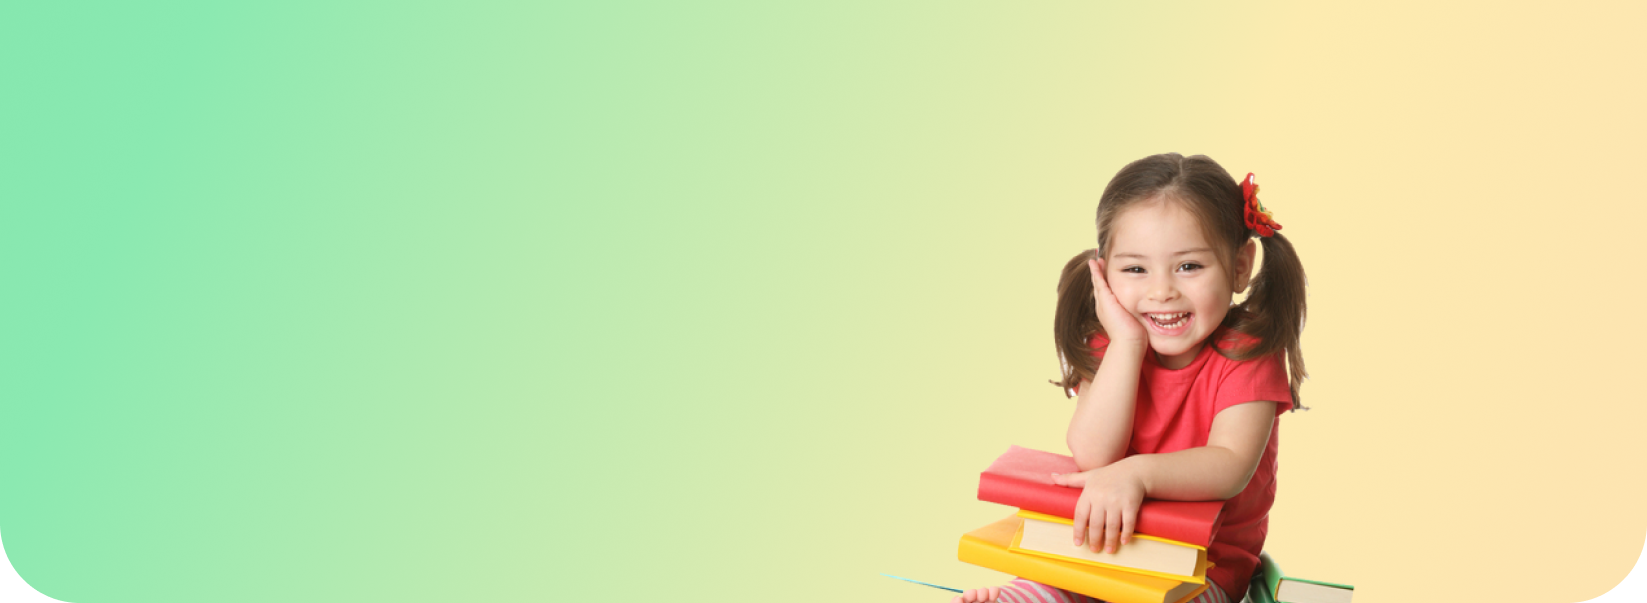
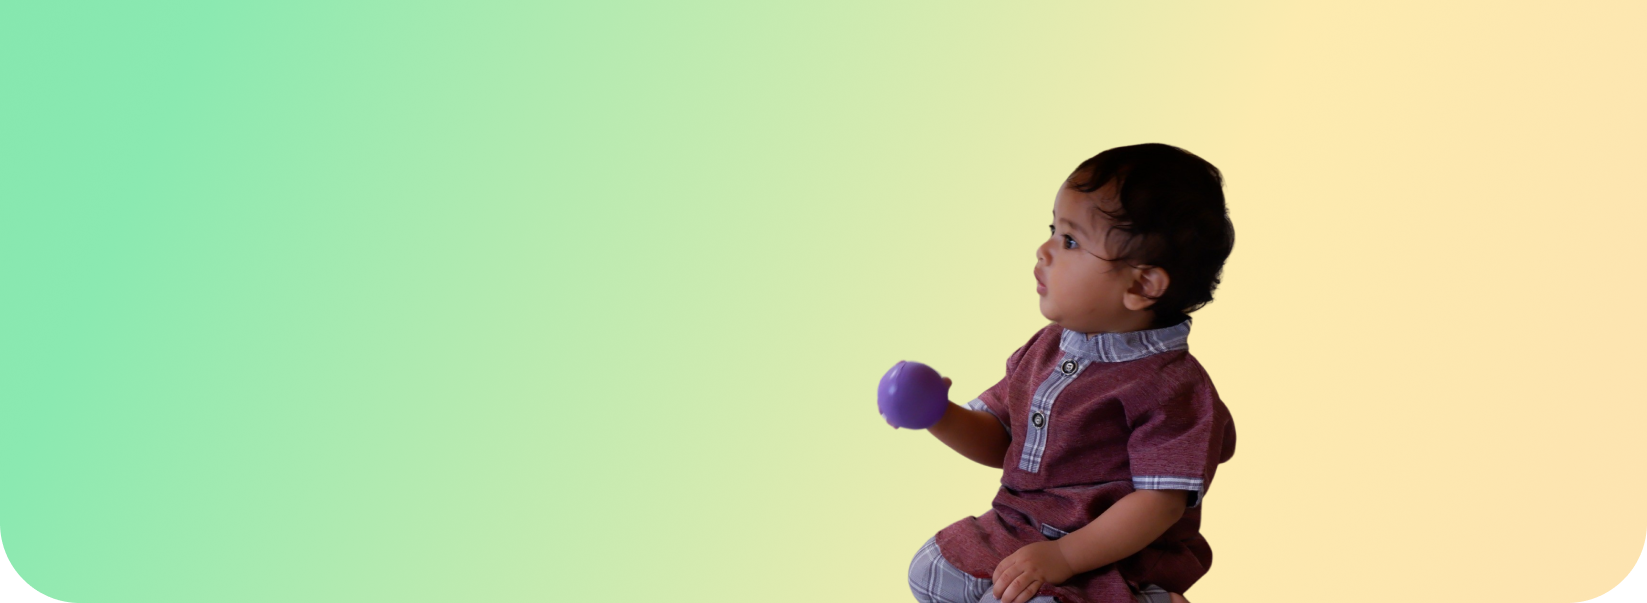
change route image homepage & branch

Changed region(s): [[0.5264, 0.2388, 0.8361, 1.0]]

diff --git a/resources/views/institutions/index.blade.php b/resources/views/institutions/index.blade.php
@@ -12,22 +12,13 @@
       </div>
       <div class="col-lg-4 ms-auto position-relative">
         <div class="row g-4">
-          {{-- <div class="col-6" data-cues="fadeIn" data-group="col-middle">
-            <div><img class="w-100 img-fluid rounded shadow-lg" src="{{ asset('assets/img/homepage/2024/April/hp1.png') }}" alt=""></div>
-            <div><img class="w-100 img-fluid rounded shadow-lg mt-4" src="{{ asset('assets/img/homepage/2024/April/hp2.png') }}" alt=""></div>
-          </div>
-          <div class="col-6 d-flex flex-column" data-cues="fadeIn" data-group="col-end" data-delay="900">
-            <div class="mt-8"><img class="img-fluid rounded shadow-lg" src="{{ asset('assets/img/homepage/2024/April/hp3.png') }}" alt=""></div>
-          </div> --}}
-
           <div class="col-6" data-cues="fadeIn" data-group="col-middle">
-            <div><img class="w-100 img-fluid rounded shadow-lg" src="{{ asset('assets/img/homepage/hp1_1.png') }}" alt=""></div>
-            <div><img class="w-100 img-fluid rounded shadow-lg mt-4" src="{{ asset('assets/img/homepage/hp2_1.png') }}" alt=""></div>
+            <div><img class="w-100 img-fluid rounded shadow-lg" src="{{ asset('assets/img/homepage/hp1.png') }}" alt=""></div>
+            <div><img class="w-100 img-fluid rounded shadow-lg mt-4" src="{{ asset('assets/img/homepage/hp2.png') }}" alt=""></div>
           </div>
           <div class="col-6 d-flex flex-column" data-cues="fadeIn" data-group="col-end" data-delay="900">
-            <div class="mt-8"><img class="img-fluid rounded shadow-lg" src="{{ asset('assets/img/homepage/hp3_1.png') }}" alt=""></div>
+            <div class="mt-8"><img class="img-fluid rounded shadow-lg" src="{{ asset('assets/img/homepage/hp3.png') }}" alt=""></div>
           </div>
-
         </div>
       </div>
     </div>

diff --git a/resources/views/branch/index.blade.php b/resources/views/branch/index.blade.php
@@ -34,21 +34,12 @@
 	</style>
 <section class="wrapper bg-transparent">
   <div class="bg-branch px-3">
-    {{-- @if($branch->grade === "Daycare")
-      <img src="{{ asset('assets/img/branch/2024/April/header-daycare.png') }}" alt="">
-    @elseif($branch->grade === "KB-TK")
-      <img src="{{ asset('assets/img/branch/2024/April/header-kb-tk.png') }}" alt="">
-    @elseif($branch->grade === "SD")
-      <img src="{{ asset('assets/img/branch/2024/April/header-sd.png') }}" alt="">
-    @else 
-      <img src="{{ asset('assets/img/branch/header-blank.png') }}" alt="">
-    @endif --}}
     @if($branch->grade === "Daycare")
-      <img src="{{ asset('assets/img/branch/header-daycare_1.png') }}" alt="">
+      <img src="{{ asset('assets/img/branch/header-daycare.png') }}" alt="">
     @elseif($branch->grade === "KB-TK")
-      <img src="{{ asset('assets/img/branch/header-kb-tk_1.png') }}" alt="">
+      <img src="{{ asset('assets/img/branch/header-kb-tk.png') }}" alt="">
     @elseif($branch->grade === "SD")
-      <img src="{{ asset('assets/img/branch/header-sd_1.png') }}" alt="">
+      <img src="{{ asset('assets/img/branch/header-sd.png') }}" alt="">
     @else 
       <img src="{{ asset('assets/img/branch/header-blank.png') }}" alt="">
     @endif
